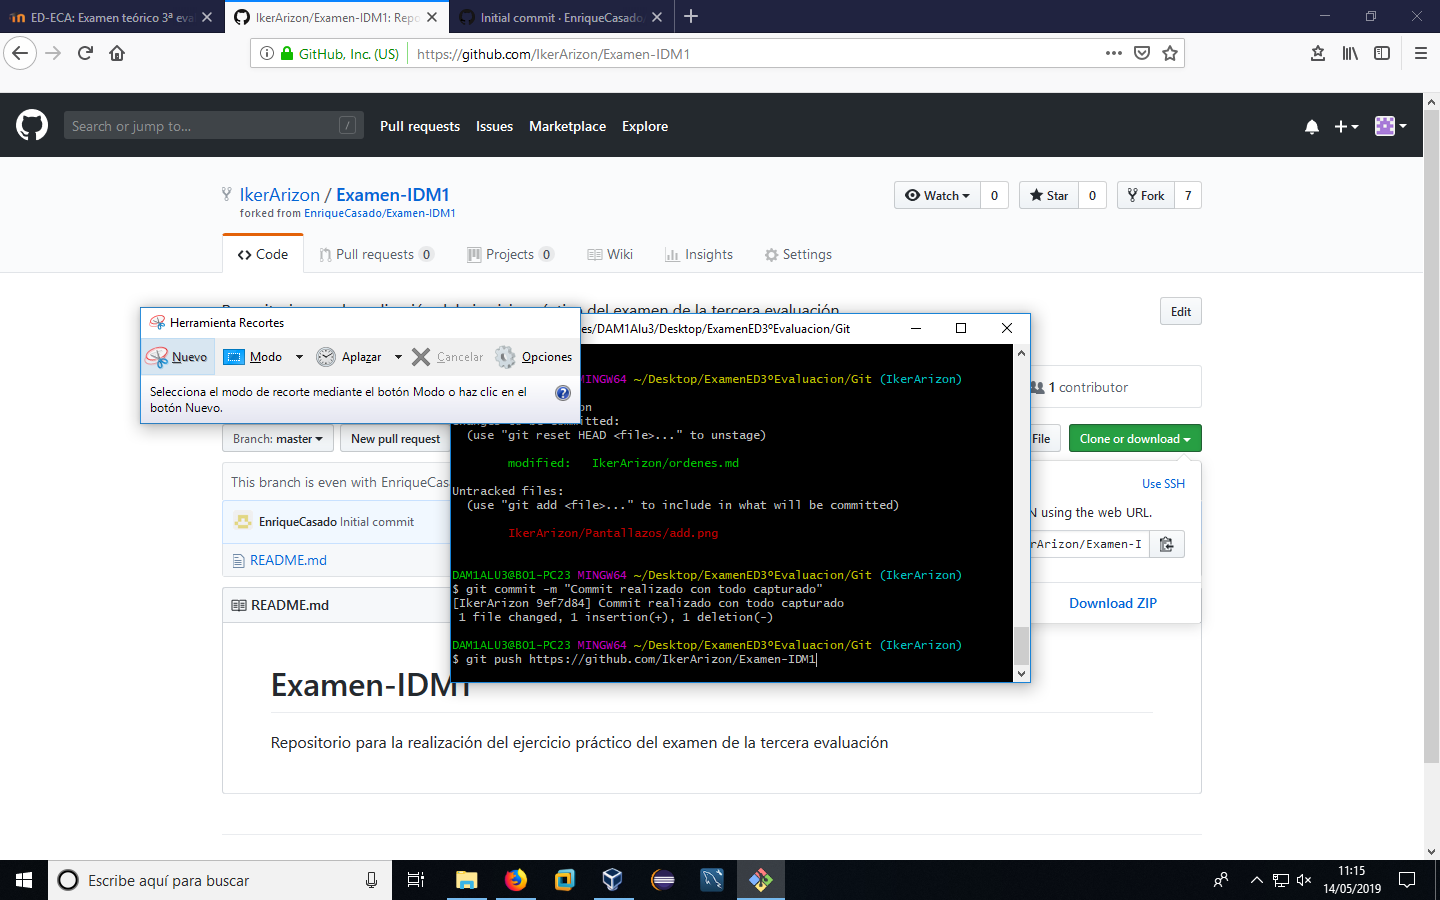
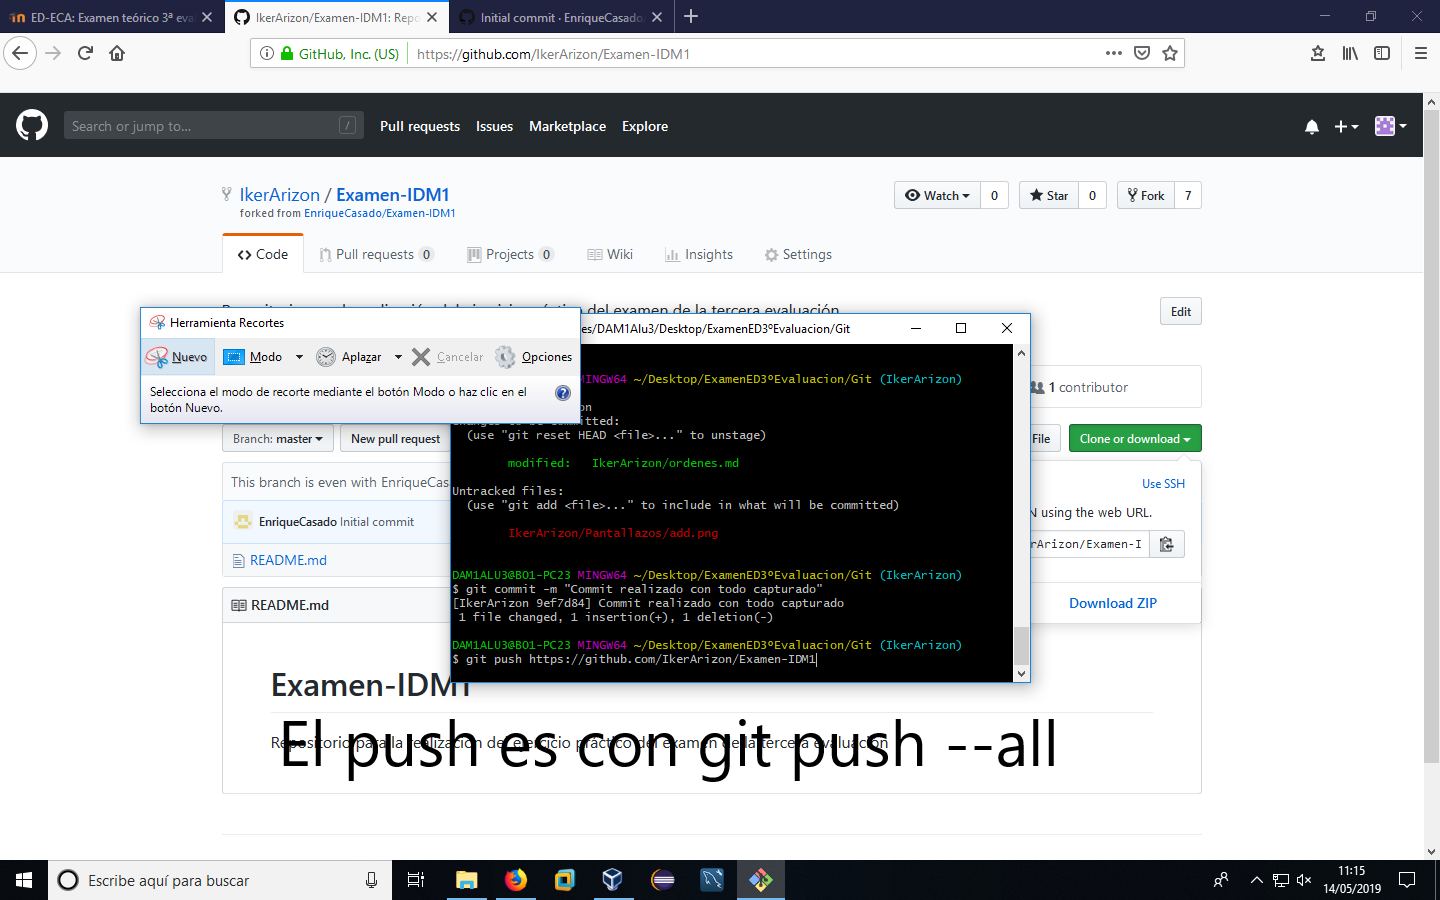
Modificado la captura de pantalla commitPush5

Changed region(s): [[0.1875, 0.7778, 0.75, 0.8711]]

diff --git a/IkerArizon/ordenes.md b/IkerArizon/ordenes.md
@@ -1,2 +1,2 @@
 
-Lo primero que he hecho ha sido ir al repositorio de github en el que se encuentra el examen, para hacerle el fork, seguido he iniciado git con git init en la carpeta en la que vo a trabajar y he hecho un pull de mi repositorio del examen. Mas adelante, he creado una nueva rama con git branch la cual he llamado IkerArizon y me he cambiado a ella con git checkout. A continuación, he creado los archivos orenes.md y moduloED.md con vim. Para terminar, he hecho un git add y he añadido la carpeta IkerArizon y un git commit -m con un comentario sobre los cambios realizados y seguido he hecho un push a mi repositorio, y para terminar he realizado un pull request en el repositorio original.
+Lo primero que he hecho ha sido ir al repositorio de github en el que se encuentra el examen, para hacerle el fork, seguido he iniciado git con git init en la carpeta en la que vo a trabajar y he hecho un pull de mi repositorio del examen. Mas adelante, he creado una nueva rama con git branch la cual he llamado IkerArizon y me he cambiado a ella con git checkout. A continuación, he creado los archivos orenes.md y moduloED.md con vim. Para terminar, he hecho un git add y he añadido la carpeta IkerArizon y un git commit -m con un comentario sobre los cambios realizados y seguido he hecho un push --all a mi repositorio, y para terminar he realizado un pull request en el repositorio original.
